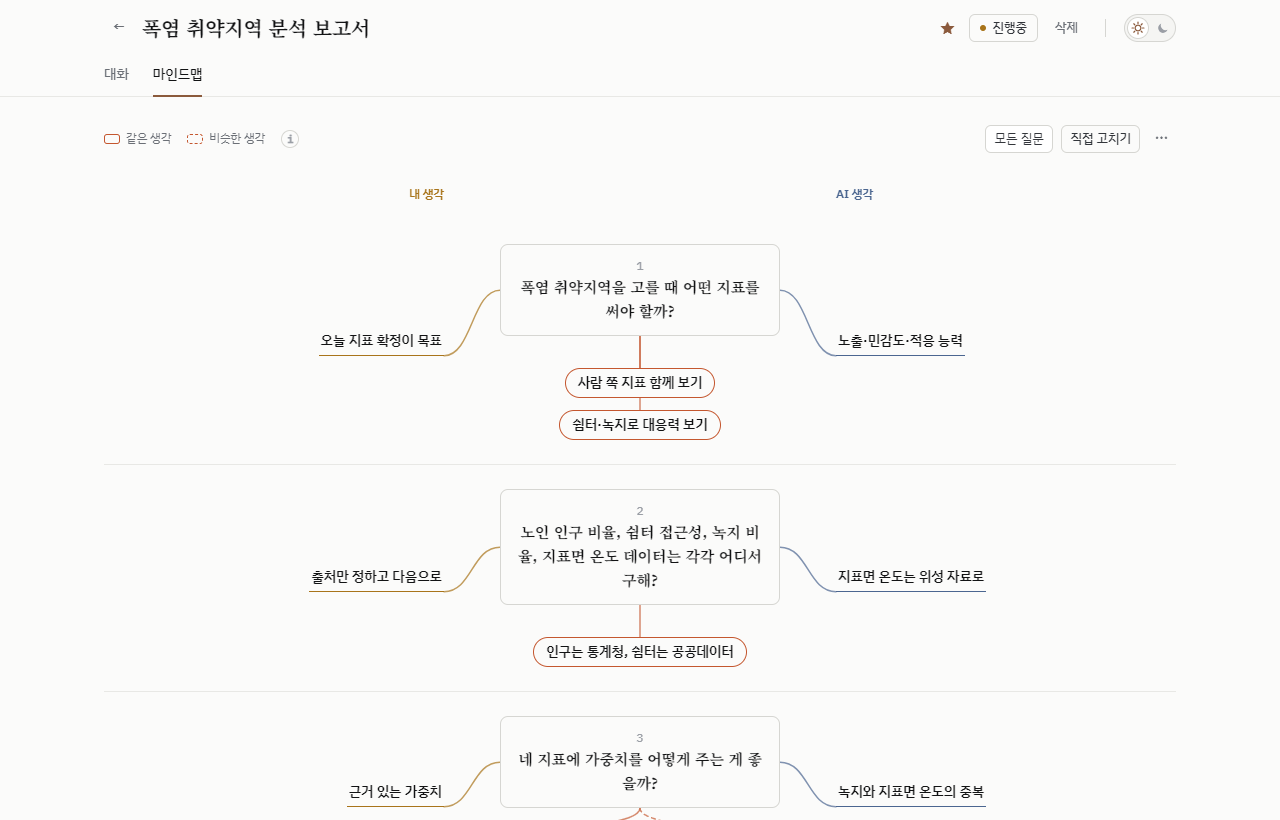
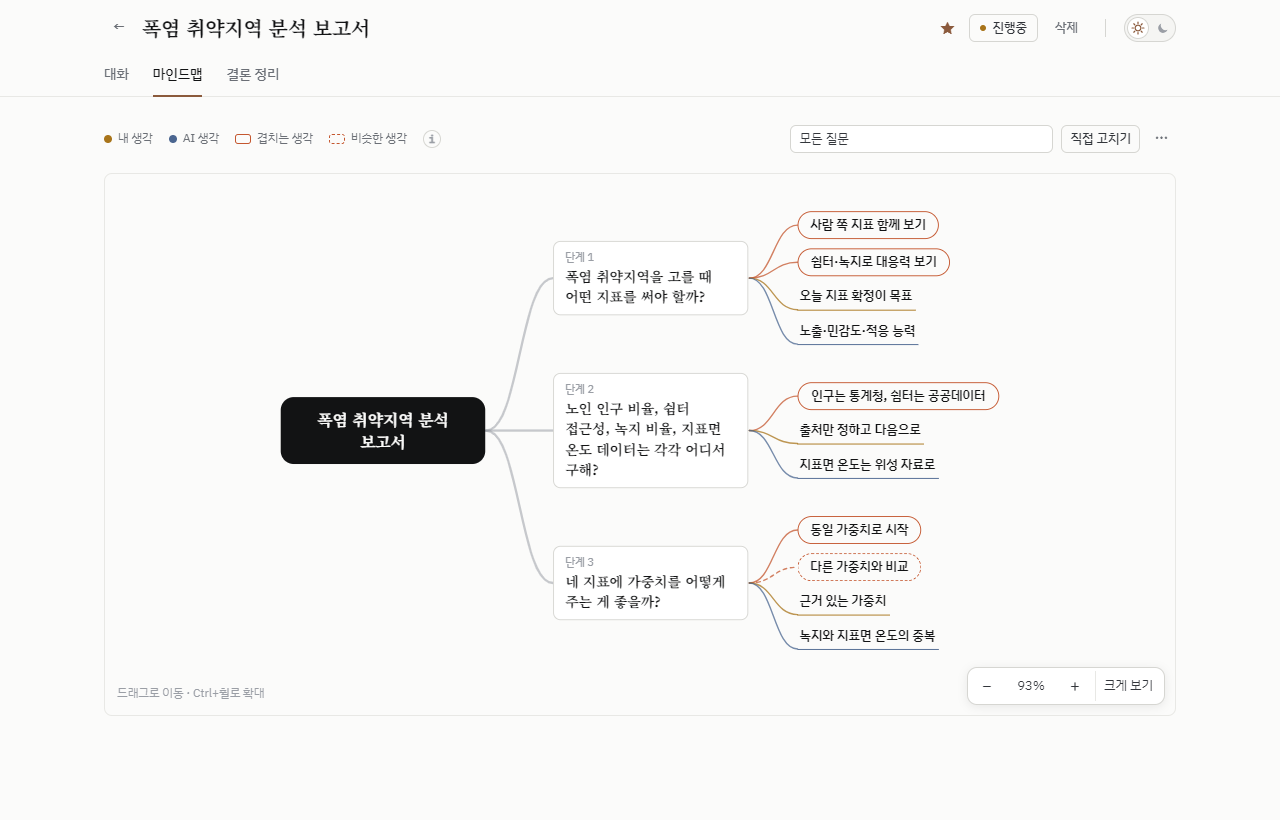
결론 정리(피라미드) 탭 + 마인드맵 단계를 1→2→3 순서대로
- 결론 정리: 맨 위 결론 한 줄, 근거 = 단계별 결론(대화 화면과 같은 값), 맨 아래 '반대로 생각하면?'
- topics에 conclusion·counter 칸 추가(마이그레이션), PATCH /api/topics로 저장
- 마인드맵 단계를 양옆이 아니라 오른쪽에 순서대로 배치
- README와 스크린샷 갱신

diff --git a/static/app.js b/static/app.js
@@ -5,6 +5,7 @@
 //   #/new                    새 주제 시작
 //   #/topic/:id              주제 > 대화 탭  (?turn=ID 로 특정 대화 위치로 이동)
 //   #/topic/:id/map          주제 > 마인드맵 탭
+//   #/topic/:id/pyramid      주제 > 결론 정리 탭 (피라미드: 결론 → 단계별 근거 → 반대로 생각하면?)
 const $app = document.getElementById("app");
 const cfg = { min_thought: 1, demo: false };
 const state = {
@@ -727,6 +728,7 @@ async function viewTopic(id, tab, opts = {}) {
         <nav class="tabs">
           <a class="tab ${tab === "chat" ? "active" : ""}" href="#/topic/${id}">대화</a>
           <a class="tab ${tab === "map" ? "active" : ""}" href="#/topic/${id}/map">마인드맵</a>
+          <a class="tab ${tab === "pyramid" ? "active" : ""}" href="#/topic/${id}/pyramid">결론 정리</a>
         </nav>
       </div>
     </header>
@@ -758,6 +760,7 @@ async function viewTopic(id, tab, opts = {}) {
 
   const $panel = document.getElementById("panel");
   if (tab === "map") renderMapTab($panel, topic, turns);
+  else if (tab === "pyramid") renderPyramidTab($panel, topic, turns);
   else renderChatTab($panel, topic, turns, opts);
 }
 
@@ -1891,8 +1894,107 @@ function paintMap(ctx) {
   resizeObs.observe($map);
 }
 
+// ---------- 결론 정리 (피라미드) ----------
+// 마인드맵으로 펼친 걸 모으는 곳: 맨 위 결론 한 줄, 그 밑 근거 = 단계마다 적은 결론, 맨 아래 '반대로 생각하면?'
+function renderPyramidTab($panel, topic, turns) {
+  const stages = chatCtx.stages || [];
+  if (!stages.length) {
+    $panel.innerHTML = `<div class="py-page"><div class="map-loading">대화에서 질문을 하면 단계가 생기고, 여기서 단계별 결론을 하나의 결론으로 모을 수 있어요.</div></div>`;
+    return;
+  }
+  const firstTurn = (sid) => turns.find((t) => t.stage_id === sid)?.id;
+  const stateText = () => {
+    const left = stages.filter((x) => !x.conclusion).length;
+    return left ? `근거 ${stages.length - left}/${stages.length} 채움` : "근거를 다 채웠어요";
+  };
+  $panel.innerHTML = `
+    <div class="py-page">
+      <div class="map-bar">
+        <p class="py-lead">결론 먼저, 그 밑에 근거 ${tip("근거는 대화의 단계마다 적은 결론이에요. 여기서 고치면 대화 화면의 단계 결론도 같이 바뀌어요. 근거를 채운 뒤 맨 위 결론을 한 줄로 정리하고, 맨 아래에 반대로 생각하면 어떤지 적어 두면 놓친 반대 근거가 보여요.", "결론 정리 안내")}</p>
+        <span class="py-state" id="py-state">${stateText()}</span>
+      </div>
+      <section class="py" id="py">
+        <svg class="py-lines" aria-hidden="true"></svg>
+        <div class="py-top">
+          <label class="py-label" for="py-concl">결론</label>
+          <textarea class="py-in py-concl" id="py-concl" data-field="conclusion" rows="1" maxlength="500" placeholder="아래 근거를 보고 한 줄로 정리해 보세요">${esc(topic.conclusion || "")}</textarea>
+        </div>
+        <div class="py-mid">
+          ${stages.map((st, i) => `
+            <article class="py-ev ${st.conclusion ? "" : "empty"}">
+              <button type="button" class="py-ev-head" ${firstTurn(st.id) ? `data-goto="${firstTurn(st.id)}"` : ""} title="이 단계 대화로 가기">
+                <span class="mm-qno">근거 ${i + 1} · 단계 ${i + 1}</span>${esc(clip(shortLinks(st.title), 60))}
+              </button>
+              <textarea class="py-in" data-stage-concl="${st.id}" rows="1" maxlength="500" aria-label="단계 ${i + 1} 결론" placeholder="이 단계에서 정한 것을 한 줄로">${esc(st.conclusion || "")}</textarea>
+            </article>`).join("")}
+        </div>
+        <div class="py-counter">
+          <label class="py-label" for="py-counter">반대로 생각하면?</label>
+          <textarea class="py-in" id="py-counter" data-field="counter" rows="1" maxlength="500" placeholder="이 결론이 틀릴 수 있는 이유나 반대 근거를 한 줄로">${esc(topic.counter || "")}</textarea>
+        </div>
+      </section>
+      ${stages.length >= 3 ? `<p class="py-mece">단계끼리 겹치거나 빠진 게 없는지 한 번 살펴보세요 ${tip("서로 겹치지 않고, 합치면 빠짐없이(MECE). 처음부터 완벽하게 나누기보다 나눈 뒤에 겹침·누락을 점검하면 돼요.", "점검 안내")}</p>` : ""}
+    </div>`;
+
+  const $py = document.getElementById("py");
+  const grow = (ta) => { ta.style.height = "auto"; ta.style.height = `${ta.scrollHeight + 2}px`; };
+  // 결론에서 근거로 내려가는 가지
+  const drawLines = () => {
+    const svg = $py.querySelector(".py-lines"), base = $py.getBoundingClientRect();
+    const top = $py.querySelector(".py-top").getBoundingClientRect();
+    const x1 = top.left + top.width / 2 - base.left, y1 = top.bottom - base.top;
+    svg.setAttribute("width", base.width); svg.setAttribute("height", base.height);
+    svg.innerHTML = [...$py.querySelectorAll(".py-ev")].map((ev) => {
+      const r = ev.getBoundingClientRect(), x2 = r.left + r.width / 2 - base.left, y2 = r.top - base.top, m = (y1 + y2) / 2;
+      return `<path d="M${x1},${y1} C${x1},${m} ${x2},${m} ${x2},${y2}"/>`;
+    }).join("");
+  };
+  // 칸을 벗어나면(또는 Enter) 저장. 단계 결론은 대화 화면의 단계 결론과 같은 값
+  const saved = new Map();
+  $py.querySelectorAll(".py-in").forEach((ta) => {
+    saved.set(ta, ta.value.trim());
+    grow(ta);
+    ta.oninput = () => { grow(ta); drawLines(); };
+    ta.onkeydown = (e) => { if (e.key === "Enter" && !e.shiftKey && !e.isComposing) { e.preventDefault(); ta.blur(); } };
+    ta.onblur = async () => {
+      const v = ta.value.trim();
+      if (v === saved.get(ta)) return;
+      try {
+        if (ta.dataset.field) {
+          await api(`/api/topics/${topic.id}`, { method: "PATCH", body: { [ta.dataset.field]: v } });
+          topic[ta.dataset.field] = v;
+        } else {
+          const id = Number(ta.dataset.stageConcl);
+          await api(`/api/stages/${id}`, { method: "PATCH", body: { conclusion: v } });
+          const st = stages.find((x) => x.id === id);
+          if (st) st.conclusion = v;
+          ta.closest(".py-ev").classList.toggle("empty", !v);
+          document.getElementById("py-state").textContent = stateText();
+        }
+        saved.set(ta, v);
+        toast("저장했어요");
+      } catch (err) { toast(err.message); }
+    };
+  });
+  $py.onclick = (e) => {
+    const g = e.target.closest("[data-goto]");
+    if (g) location.hash = `#/topic/${topic.id}?turn=${g.dataset.goto}`;
+  };
+  drawLines();
+  // 글꼴이 늦게 오거나 폭이 바뀌면 줄 수가 달라지므로 높이를 다시 맞춘다
+  const regrow = () => { if (!document.body.contains($py)) return; $py.querySelectorAll(".py-in").forEach(grow); drawLines(); };
+  document.fonts?.ready.then(regrow);
+  let lastW = $py.clientWidth;
+  if (resizeObs) resizeObs.disconnect();
+  resizeObs = new ResizeObserver(() => {
+    if (!document.body.contains($py)) return;
+    if ($py.clientWidth !== lastW) { lastW = $py.clientWidth; regrow(); } else drawLines();
+  });
+  resizeObs.observe($py);
+}
+
 // ---- 마인드맵 보기: 주제가 가운데, 단계가 양옆 큰 가지, 요점이 그 끝의 잔가지 ----
-// 같은 단계에서 여러 번 물어도 그 단계 가지만 굵어진다. 드래그로 이동, 버튼·Ctrl+휠·두 손가락으로 확대·축소
+// 단계는 오른쪽에 1, 2, 3 순서대로. 같은 단계에서 여러 번 물어도 그 단계 가지만 굵어진다. 드래그로 이동, 버튼·Ctrl+휠·두 손가락으로 확대·축소
 function paintRadial(ctx, rows, point, view, jump) {
   const $area = document.getElementById("map-area");
   const sel = view.turns ? String(view.turns[0]) : null;
@@ -1947,10 +2049,10 @@ function paintRadial(ctx, rows, point, view, jump) {
     groups.forEach((g) => {
       g.lh = g.leaves.reduce((s, l) => s + l.h, 0) + Math.max(0, g.leaves.length - 1) * LG;
       g.h = Math.max(g.stage.h, g.lh);
-      g.side = narrow || tot.R <= tot.L ? "R" : "L";
+      g.side = "R";  // 양옆으로 나누면 1→2→3 순서가 안 보여서, 단계는 늘 오른쪽에 위에서 아래로
       col[g.side].push(g); tot[g.side] += g.h + BG;
     });
-    root.x = narrow ? 0 : -root.w / 2; root.y = -root.h / 2;
+    root.x = 0; root.y = -root.h / 2;
     // 좁은 화면: 옆으로 뻗으면 잘리므로 주제 아래로 단계, 단계 아래로 요점이 내려가는 나무 모양
     if (narrow) {
       root.x = 0; root.y = 0;
@@ -2516,6 +2618,7 @@ async function route() {
   if (path === "/stats") return viewStats(qs.get("owner") === "1");
   if (path === "/new") await viewNewTopic();
   else if ((m = path.match(/^\/topic\/(\d+)\/map$/))) { window.scrollTo(0, 0); await viewTopic(Number(m[1]), "map"); }
+  else if ((m = path.match(/^\/topic\/(\d+)\/pyramid$/))) { window.scrollTo(0, 0); await viewTopic(Number(m[1]), "pyramid"); }
   else if ((m = path.match(/^\/topic\/(\d+)$/))) {
     const opts = { turn: Number(qs.get("turn")) || null, ask: Number(qs.get("ask")) || null };
     // 주소에서 ?ask/?turn을 지워 둔다: 새로고침해도 다시 묻지 않고, 같은 요점을 또 눌러도 이동하게

diff --git a/static/style.css b/static/style.css
@@ -1742,3 +1742,42 @@ body.mmr-lock { overflow: hidden; }
   .mmr-leaf { max-width: 260px; }
   .mmr-root { max-width: 300px; text-align: left; }
 }
+
+/* ---- 결론 정리 (피라미드): 결론 → 근거(단계 결론) → 반대로 생각하면? ---- */
+.py-page { max-width: 1120px; margin: 0 auto; padding: var(--sp-4) var(--sp-4) 72px; }
+.py-lead { display: inline-flex; align-items: center; gap: 6px; margin: 0; font-size: var(--fs-sm); color: var(--muted); }
+.py-state { font-size: var(--fs-xs); color: var(--quiet); }
+.py { position: relative; display: grid; gap: 44px; padding: var(--sp-5) var(--sp-4); border: 1px solid var(--hairline); border-radius: var(--r-card); background: var(--bg); }
+.py-lines { position: absolute; left: 0; top: 0; pointer-events: none; overflow: visible; }
+.py-lines path { fill: none; stroke: var(--quiet); stroke-width: 1.5; opacity: .5; }
+.py > :not(svg) { position: relative; }
+.py-label { display: block; margin-bottom: 6px; font-size: var(--fs-xs); font-weight: 600; color: var(--quiet); }
+.py-in {
+  display: block; width: 100%; resize: none; overflow: hidden; border: 1px solid transparent; border-radius: var(--r-control);
+  padding: 6px 8px; background: transparent; color: var(--text); font: inherit; line-height: 1.55; min-height: 0;
+}
+.py-in:hover { border-color: var(--hairline); }
+.py-in:focus { border-color: var(--ai); background: var(--surface); outline: none; }
+.py-in::placeholder { color: var(--quiet); }
+.py-top { justify-self: center; width: min(560px, 100%); padding: 14px 16px; border-radius: 14px; background: var(--text); text-align: center; }
+.py-top .py-label { color: color-mix(in srgb, var(--bg) 65%, transparent); }
+.py-top .py-in { color: var(--bg); text-align: center; font-family: var(--serif); font-size: 18px; font-weight: 700; }
+.py-top .py-in::placeholder { color: color-mix(in srgb, var(--bg) 55%, transparent); font-weight: 500; }
+.py-top .py-in:hover { border-color: color-mix(in srgb, var(--bg) 25%, transparent); }
+.py-top .py-in:focus { background: color-mix(in srgb, var(--bg) 10%, transparent); border-color: color-mix(in srgb, var(--bg) 45%, transparent); }
+.py-mid { display: grid; grid-template-columns: repeat(auto-fit, minmax(210px, 1fr)); gap: var(--sp-3); }
+.py-ev { display: grid; align-content: start; gap: 6px; padding: 12px 12px 8px; border: 1.5px solid var(--hairline-strong); border-radius: var(--r-card); background: var(--surface); }
+.py-ev.empty { border-style: dashed; background: transparent; }
+.py-ev-head { display: block; padding: 0 2px; border: none; background: none; color: var(--text); text-align: left; cursor: pointer; font-family: var(--serif); font-size: var(--fs-ui); font-weight: 700; line-height: 21px; }
+.py-ev-head .mm-qno { font-family: var(--font); }
+.py-ev-head:hover { color: var(--brand); }
+.py-ev .py-in { font-size: var(--fs-ui); }
+.py-counter { padding: 10px 14px; border: 1.5px dashed color-mix(in srgb, var(--shared) 60%, transparent); border-radius: var(--r-card); }
+.py-counter .py-label { color: var(--shared); }
+.py-mece { display: flex; align-items: center; gap: 6px; margin: var(--sp-3) 0 0; font-size: var(--fs-sm); color: var(--quiet); }
+@media (max-width: 640px) {
+  .py { gap: 28px; padding: var(--sp-4) var(--sp-3); }
+  .py-lines { display: none; }
+  .py-mid { grid-template-columns: 1fr; padding-left: 14px; border-left: 2px solid var(--hairline-strong); }
+  .py-top .py-in { font-size: 16px; }
+}

diff --git a/app.py b/app.py
@@ -320,6 +320,10 @@ def init_db():
             # 예시로 넣은 메모는 그 대화와 같은 시각에 만들어졌다 (사용자가 나중에 담은 메모와 구분)
             db.execute("""UPDATE side_notes SET is_sample = 1 WHERE EXISTS (
                 SELECT 1 FROM turns tu WHERE tu.id = side_notes.turn_id AND tu.is_sample = 1 AND tu.created_at = side_notes.created_at)""")
+        if "conclusion" not in columns(db, "topics"):
+            # 피라미드 정리: 주제 결론 한 줄 + '반대로 생각하면?' 한 줄 (근거는 각 단계의 결론)
+            db.execute("ALTER TABLE topics ADD COLUMN conclusion TEXT NOT NULL DEFAULT ''")
+            db.execute("ALTER TABLE topics ADD COLUMN counter TEXT NOT NULL DEFAULT ''")
         if "stage_id" not in columns(db, "turns"):
             # 한 주제 = 단계 박스들. 지금까지의 질문은 하나씩 단계가 되고,
             # 내 생각 없이 이어 물은 꼬리 질문은 바로 앞 단계 박스에 붙인다
@@ -965,7 +969,7 @@ def attachment_blocks(db, turn_id):
 # ---------- 주제 ----------
 
 TOPIC_SELECT = """
-    SELECT t.id, t.name, t.folder_id, t.is_starred, t.status, t.created_at, t.updated_at, t.is_sample,
+    SELECT t.id, t.name, t.folder_id, t.is_starred, t.status, t.created_at, t.updated_at, t.is_sample, t.conclusion, t.counter,
            COUNT(u.id) AS turn_count,
            (SELECT COUNT(*) FROM side_notes n WHERE n.topic_id = t.id AND n.done = 0) AS open_notes,
            (SELECT question FROM turns WHERE topic_id = t.id ORDER BY id DESC LIMIT 1) AS last_question
@@ -1056,6 +1060,9 @@ def update_topic(topic_id):
         db.execute("UPDATE topics SET folder_id = ? WHERE id = ?", (fid, topic_id))
     if data.get("status") in ("in_progress", "done"):
         db.execute("UPDATE topics SET status = ? WHERE id = ?", (data["status"], topic_id))
+    for key in ("conclusion", "counter"):  # 피라미드: 결론 한 줄, 반대로 생각하면?
+        if key in data:
+            db.execute(f"UPDATE topics SET {key} = ? WHERE id = ?", (str(data[key] or "").strip()[:500], topic_id))
     db.commit()
     return jsonify(ok=True)
 
